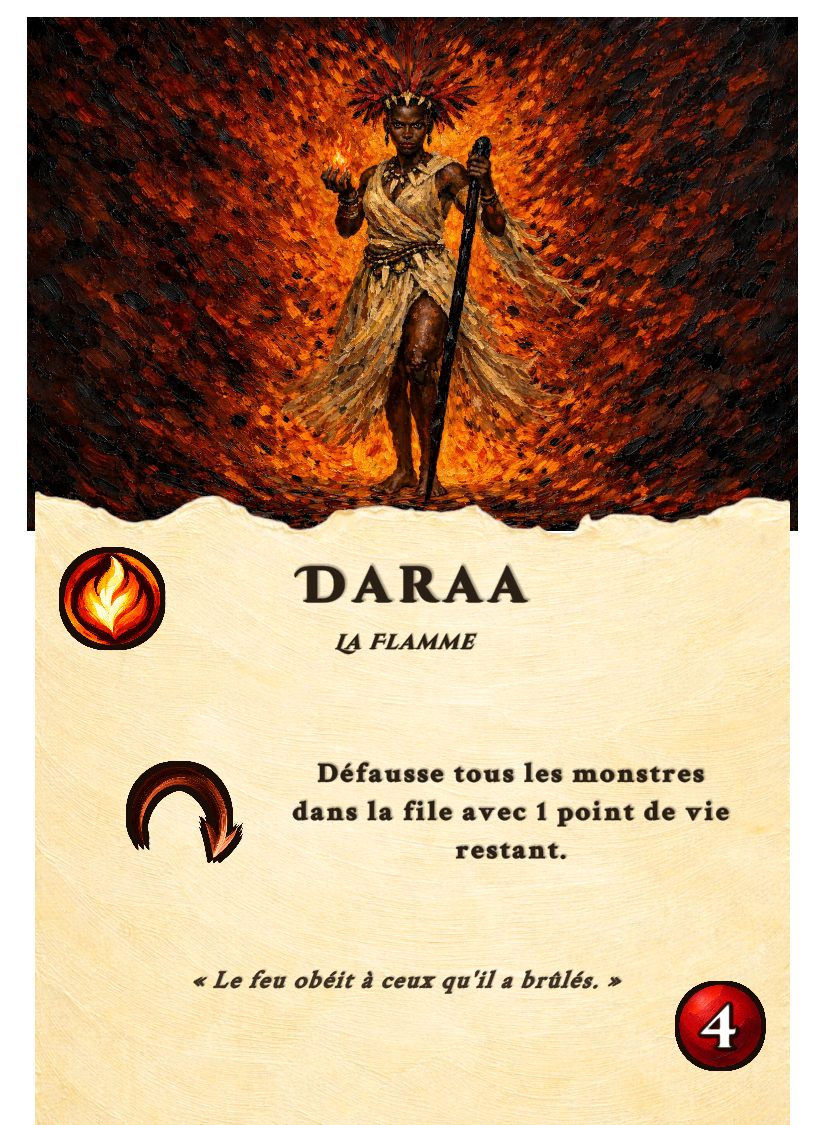
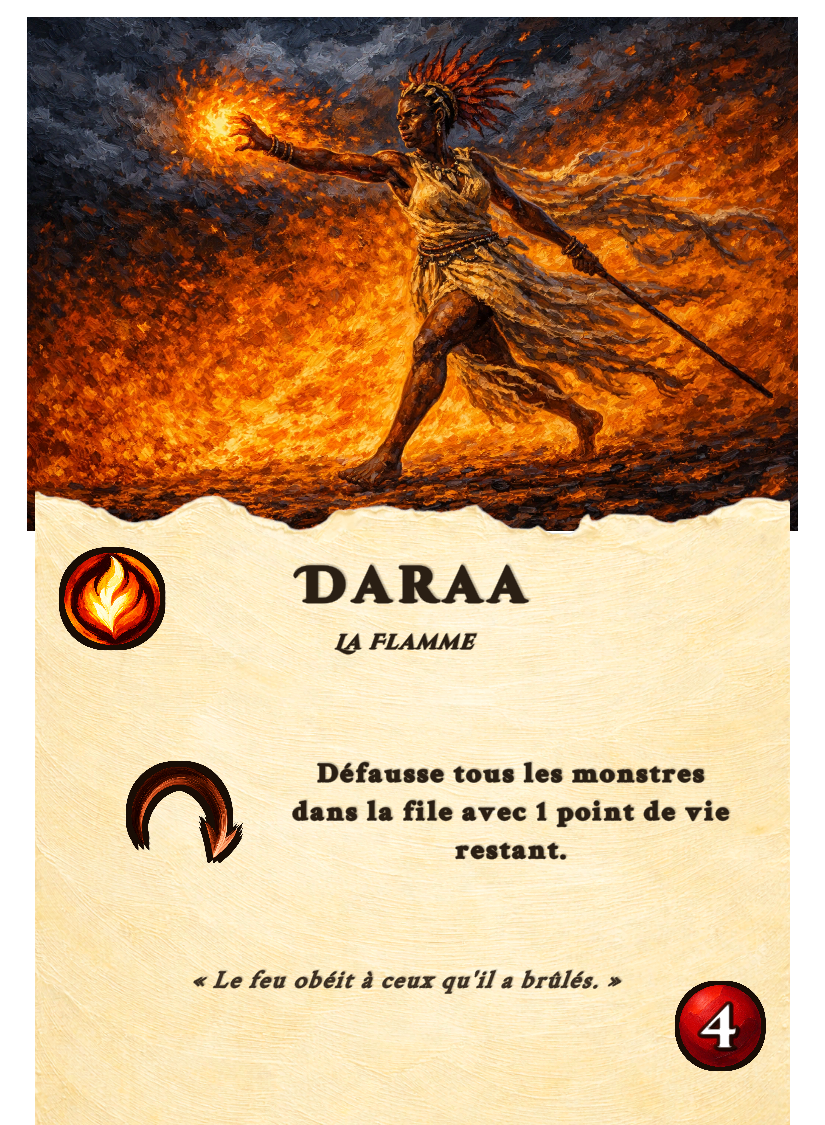
Daraa & Nawel : nouveaux visuels + outline/ombre uniforme + scale 0.47
- Mise à jour assets Daraa (face + raw Mage) et Nawel (face)
- CardGenerator : ombre et outline appliqués à tous les textes, pas seulement citation
- Scale héros ajusté de 0.5 à 0.47 dans la scène Heros

diff --git a/BossRush/Assets/Scripts/CardGenerator.cs b/BossRush/Assets/Scripts/CardGenerator.cs
@@ -134,7 +134,7 @@ public abstract class CardGenerator : MonoBehaviour
         {
             mat.EnableKeyword("UNDERLAY_ON");
             var uc = shadowColor;
-            if (isCitation) uc.a = citationShadowOpacity;
+            uc.a = citationShadowOpacity; // même opacité d'ombre pour tous les textes
             mat.SetColor("_UnderlayColor", uc);
             mat.SetFloat("_UnderlayOffsetX", shadowOffsetX);
             mat.SetFloat("_UnderlayOffsetY", shadowOffsetY);
@@ -145,14 +145,14 @@ public abstract class CardGenerator : MonoBehaviour
             mat.DisableKeyword("UNDERLAY_ON");
         }
 
-        // Outline (citation seulement)
-        if (isCitation && citationOutline)
+        // Outline sur tous les textes pour rendu uniforme
+        if (citationOutline)
         {
             mat.EnableKeyword("OUTLINE_ON");
             mat.SetColor("_OutlineColor", citationOutlineColor);
             mat.SetFloat("_OutlineWidth", citationOutlineWidth);
         }
-        else if (!isCitation)
+        else
         {
             mat.DisableKeyword("OUTLINE_ON");
             mat.SetFloat("_OutlineWidth", 0f);
